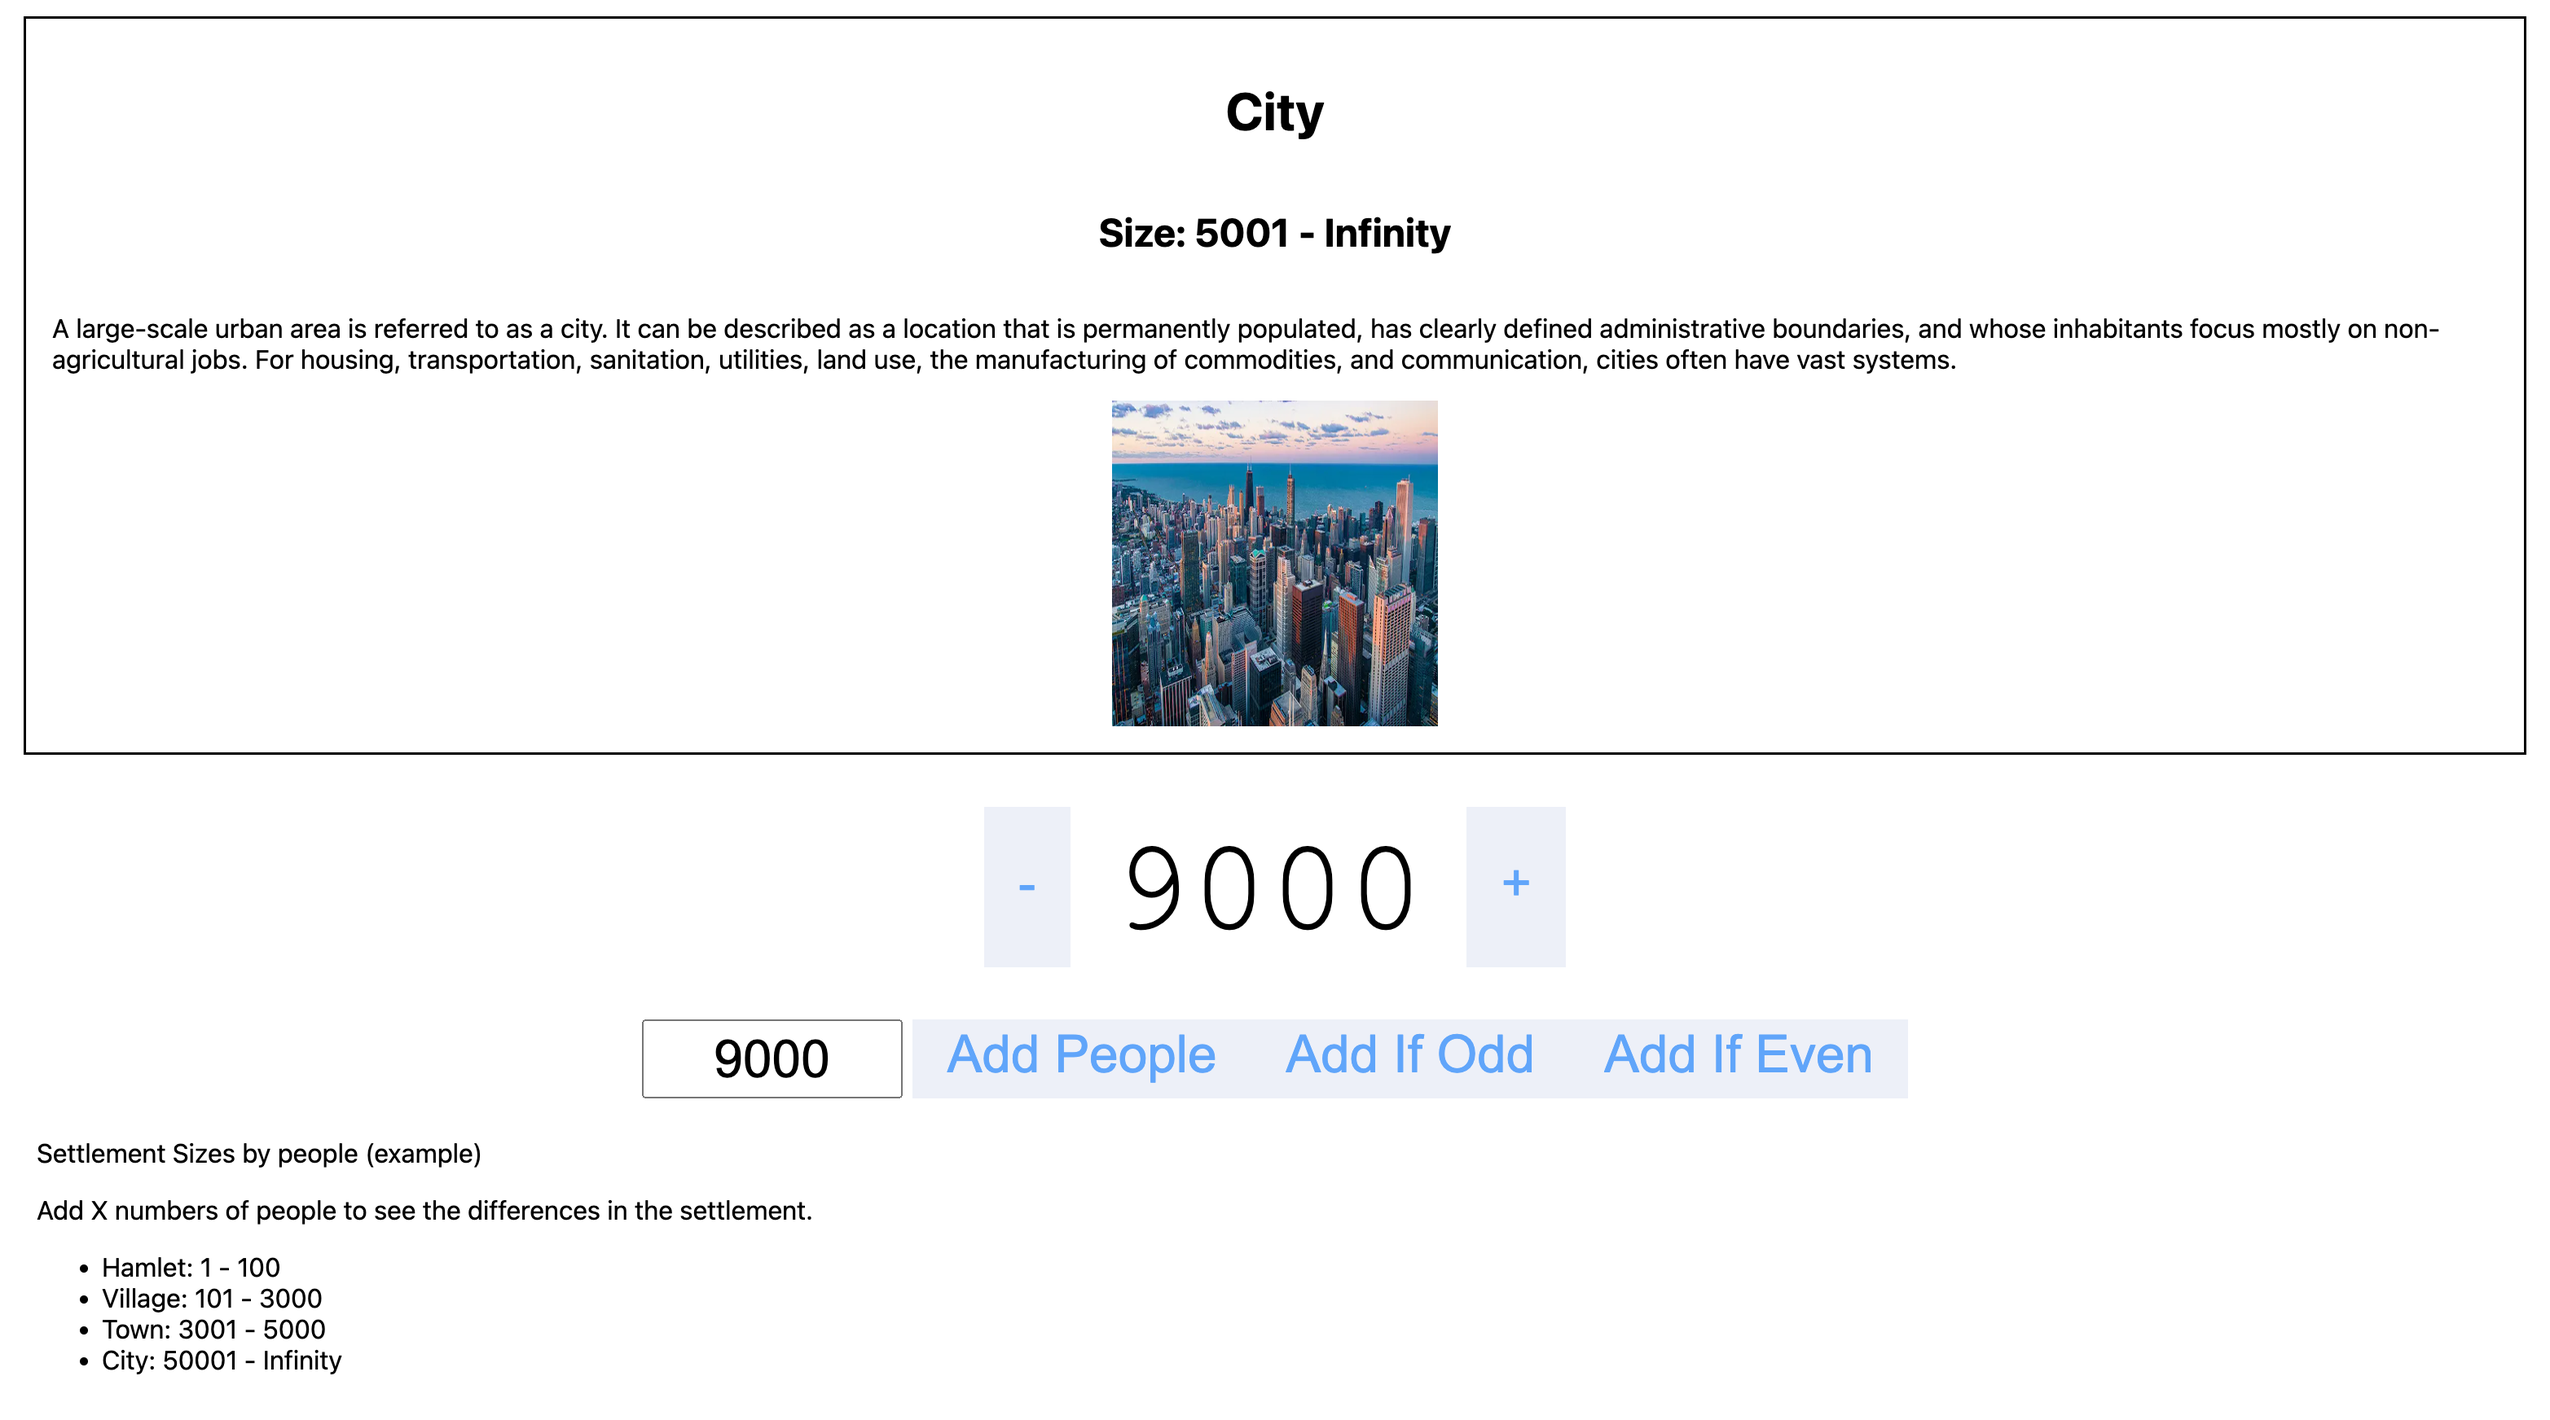
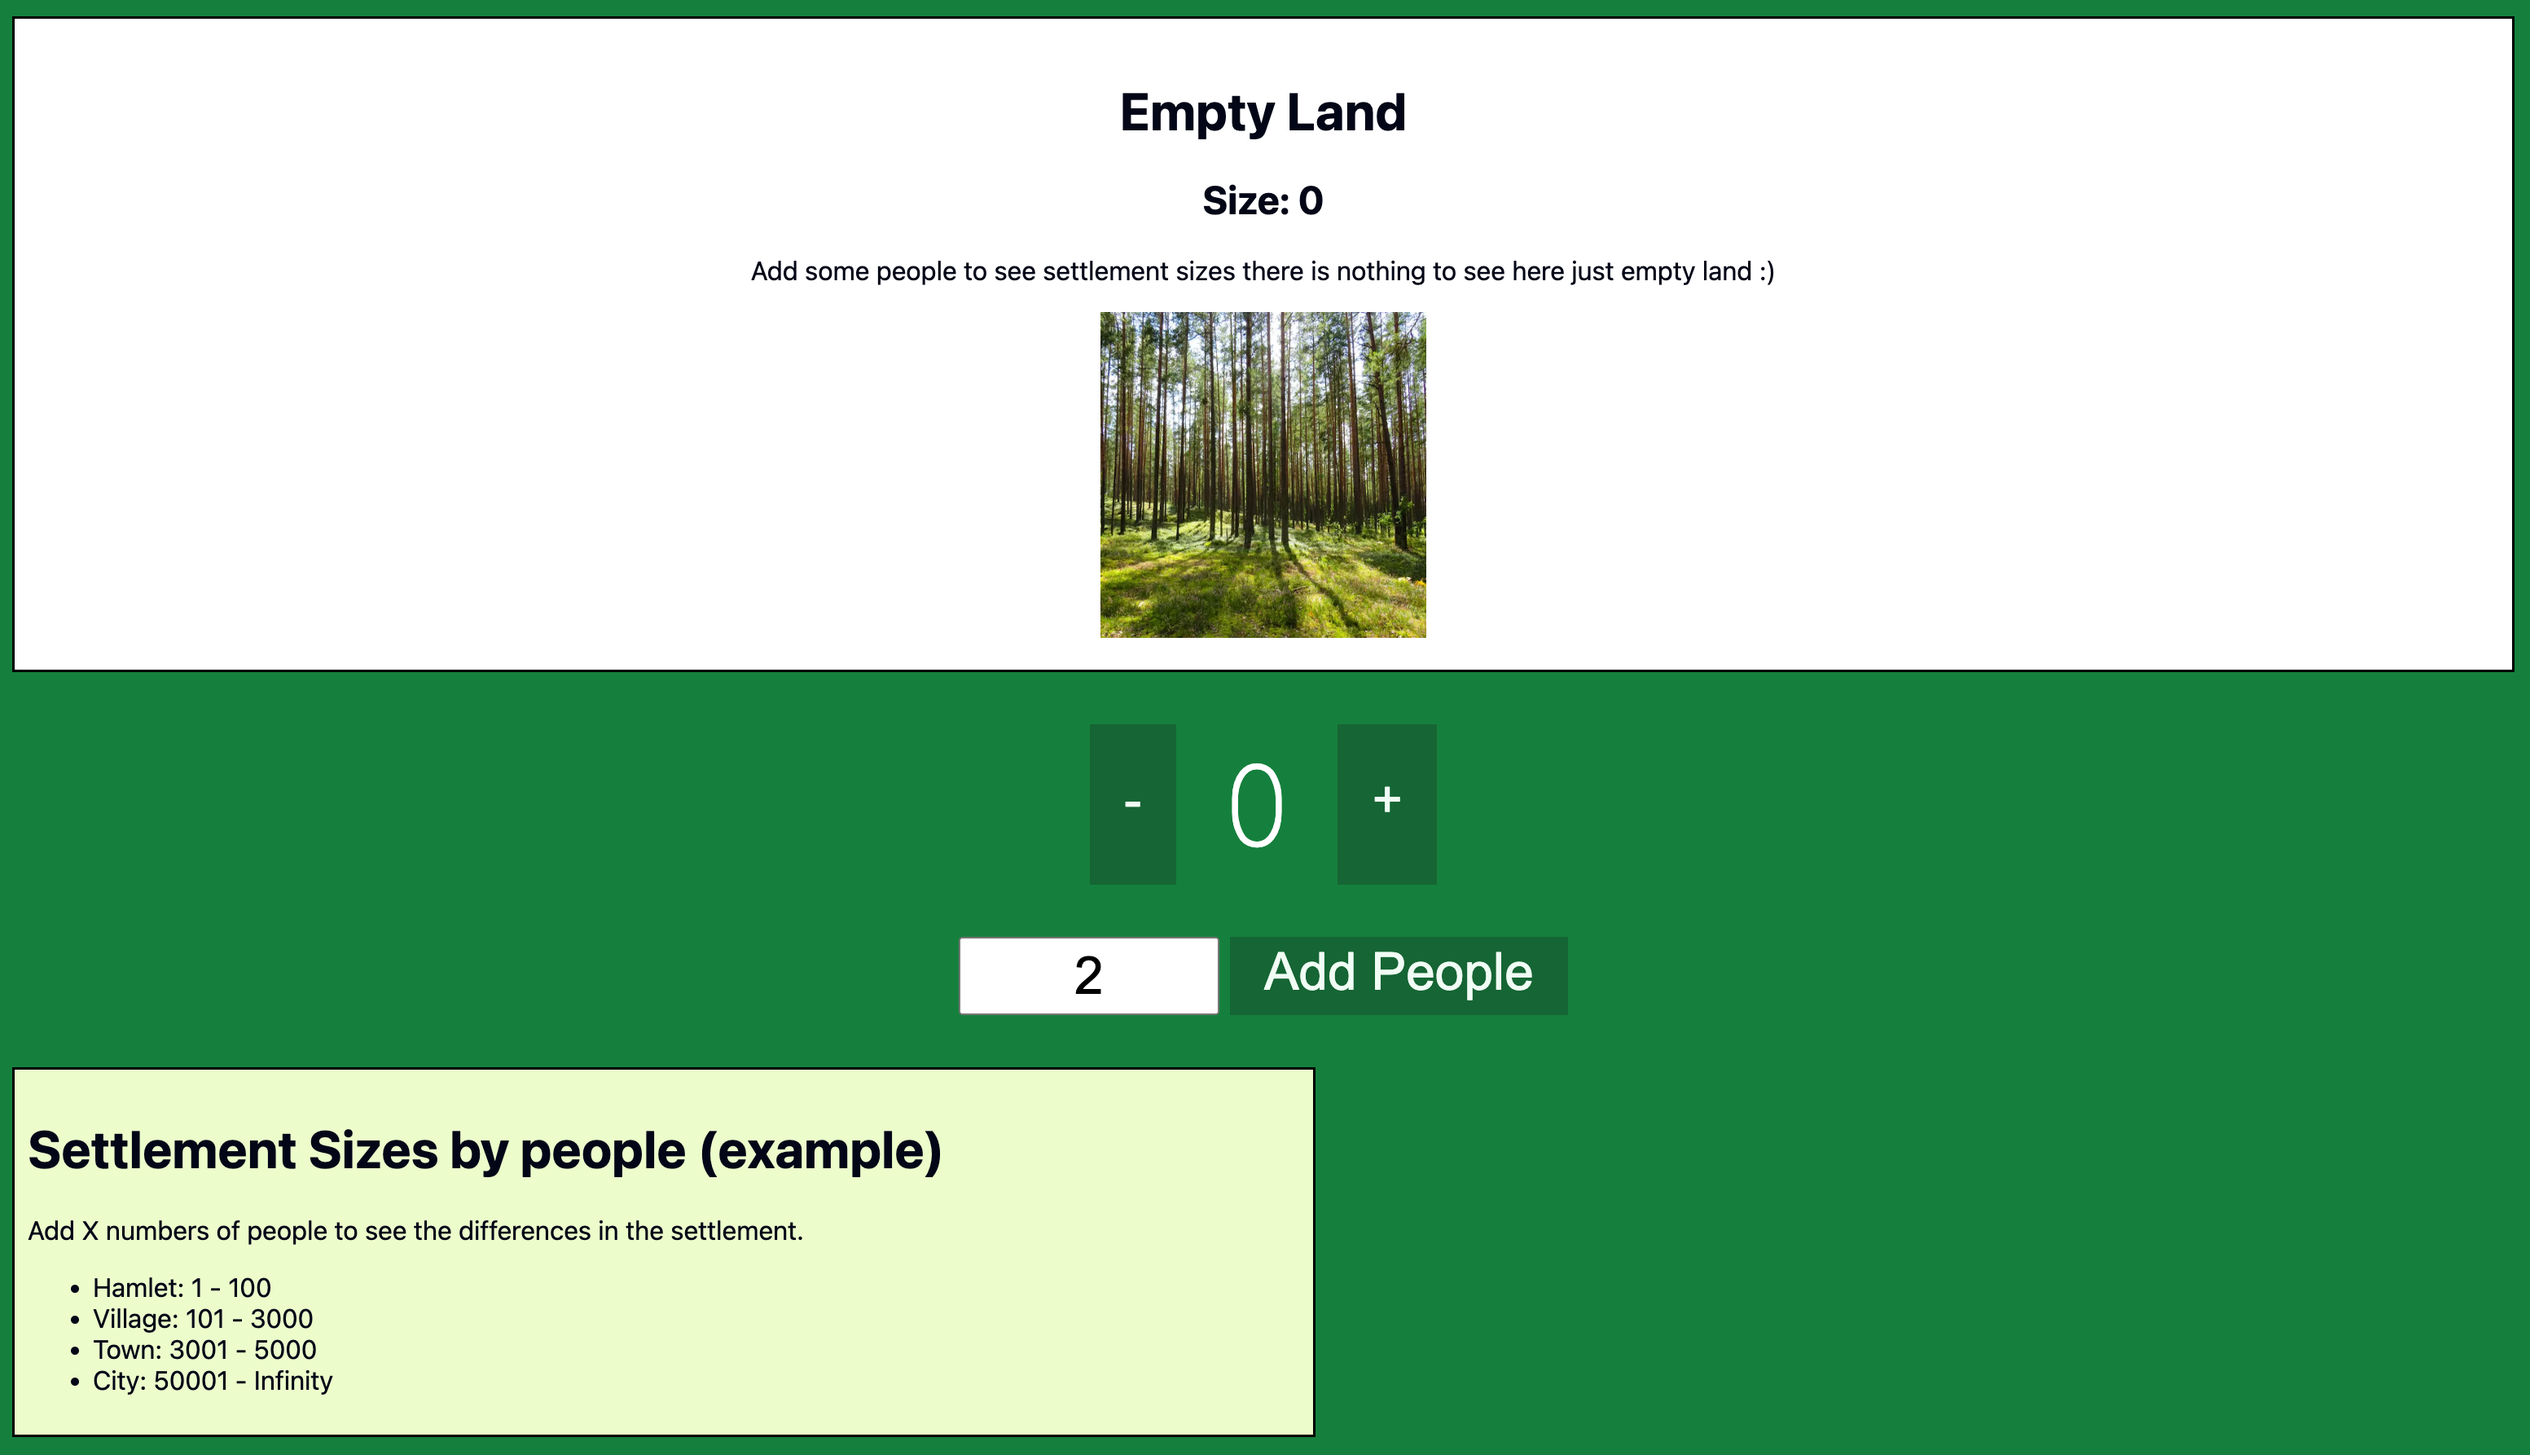
removed odd and even logic for both apps and improved the UI design

diff --git a/my-app-zedux/src/app/components/Counter/Counter.js b/my-app-zedux/src/app/components/Counter/Counter.js
@@ -6,10 +6,8 @@ import { countAtom, settlementAtom } from '../../store';
 import styles from './counter.module.css';
 
 export default function Counter() {
-  const [
-    count,
-    { decrement, increment, incrementByAmount, incrementOdd, incrementEven },
-  ] = useAtomState(countAtom);
+  const [count, { decrement, increment, incrementByAmount }] =
+    useAtomState(countAtom);
   const [settlement] = useAtomState(settlementAtom);
   const [incrementAmount, setIncrementAmount] = useState(2);
   const [imgSize] = useState(200);
@@ -78,6 +76,24 @@ export default function Counter() {
     <div className={styles.container}>
       <div className={styles.settlements}>
         <Settlements />
+        {count <= 0 ? (
+          <div className={styles.settlementempty}>
+            <h1>Empty Land</h1>
+            <h2>Size: 0</h2>
+            <p>
+              Add some people to see settlement sizes there is nothing to see
+              here just empty land :)
+            </p>
+            <Image
+              src="https://res.cloudinary.com/d74fh3kw/image/upload/v1695310253/empty-land_ralhqp.jpg"
+              height={imgSize}
+              width={imgSize}
+              alt="Empty Land"
+            />
+          </div>
+        ) : (
+          <div></div>
+        )}
       </div>
       <div className={styles.counter}>
         <button
@@ -109,21 +125,9 @@ export default function Counter() {
         >
           Add People
         </button>
-        <button
-          className={styles.button}
-          onClick={() => incrementOdd(incrementAmount)}
-        >
-          Add If Odd
-        </button>
-        <button
-          className={styles.button}
-          onClick={() => incrementEven(incrementAmount)}
-        >
-          Add If Even
-        </button>
       </div>
       <div className={styles.legend}>
-        <p>Settlement Sizes by people (example)</p>
+        <h1>Settlement Sizes by people (example)</h1>
         <p>Add X numbers of people to see the differences in the settlement.</p>
         <ul>
           <li>Hamlet: 1 - 100</li>

diff --git a/my-app-redux/src/app/components/Counter/Counter.js b/my-app-redux/src/app/components/Counter/Counter.js
@@ -8,8 +8,6 @@ import {
   useDispatch,
   selectCount,
   selectSettlement,
-  incrementIfOddAsync,
-  incrementIfEvenAsync,
 } from '../../../lib/redux';
 import styles from './counter.module.css';
 
@@ -84,6 +82,24 @@ export const Counter = () => {
     <div className={styles.container}>
       <div className={styles.settlements}>
         <Settlements />
+        {count <= 0 ? (
+          <div className={styles.settlementempty}>
+            <h1>Empty Land</h1>
+            <h2>Size: 0</h2>
+            <p>
+              Add some people to see settlement sizes there is nothing to see
+              here just empty land :)
+            </p>
+            <Image
+              src="https://res.cloudinary.com/d74fh3kw/image/upload/v1695310253/empty-land_ralhqp.jpg"
+              height={imgSize}
+              width={imgSize}
+              alt="Empty Land"
+            />
+          </div>
+        ) : (
+          <div></div>
+        )}
       </div>
       <div className={styles.counter}>
         <button
@@ -117,21 +133,9 @@ export const Counter = () => {
         >
           Add People
         </button>
-        <button
-          className={styles.button}
-          onClick={() => dispatch(incrementIfOddAsync(incrementAmount))}
-        >
-          Add If Odd
-        </button>
-        <button
-          className={styles.button}
-          onClick={() => dispatch(incrementIfEvenAsync(incrementAmount))}
-        >
-          Add If Even
-        </button>
       </div>
       <div className={styles.legend}>
-        <p>Settlement Sizes by people (example)</p>
+        <h1>Settlement Sizes by people (example)</h1>
         <p>Add X numbers of people to see the differences in the settlement.</p>
         <ul>
           <li>Hamlet: 1 - 100</li>

diff --git a/my-app-redux/src/app/components/Counter/counter.module.css b/my-app-redux/src/app/components/Counter/counter.module.css
@@ -10,6 +10,7 @@
 
 .settlements {
   display: flex;
+  background-color: #ffffff;
   flex-flow: column nowrap;
   align-items: center;
   margin: 2rem auto;
@@ -24,12 +25,17 @@
   margin-top: 2rem;
 }
 
+.settlementempty {
+  text-align: center;
+}
+
 .value {
   font-size: 5rem;
   padding-left: 1.6rem;
   padding-right: 1.6rem;
   margin-top: 0.5rem;
   font-family: 'Courier New', Courier, monospace;
+  color: #ffffff;
 }
 
 .button {
@@ -40,10 +46,10 @@
   padding-right: 1.2rem;
   outline: none;
   border: 2px solid transparent;
-  color: rgb(96 165 250);
+  color: rgb(240 253 244);
   padding-bottom: 0.4rem;
   cursor: pointer;
-  background-color: rgba(76, 106, 182, 0.1);
+  background-color: rgb(22 101 52);
   transition: all 0.15s;
 }
 
@@ -57,7 +63,7 @@
 
 .button:hover,
 .button:focus {
-  background-color: rgb(59 130 246);
+  background-color: rgb(34 197 94);
   color: #ffffff;
 }
 
@@ -66,5 +72,10 @@
 }
 
 .legend {
+  margin-top: 2rem;
+  width: 100%;
+  max-width: 50rem;
   padding: 0.5rem;
+  border: 0.1rem solid black;
+  background: rgb(236 252 203);
 }

diff --git a/my-app-zedux/src/app/components/Counter/counter.module.css b/my-app-zedux/src/app/components/Counter/counter.module.css
@@ -10,6 +10,7 @@
 
 .settlements {
   display: flex;
+  background-color: #ffffff;
   flex-flow: column nowrap;
   align-items: center;
   margin: 2rem auto;
@@ -24,12 +25,17 @@
   margin-top: 2rem;
 }
 
+.settlementempty {
+  text-align: center;
+}
+
 .value {
   font-size: 5rem;
   padding-left: 1.6rem;
   padding-right: 1.6rem;
   margin-top: 0.5rem;
   font-family: 'Courier New', Courier, monospace;
+  color: #ffffff;
 }
 
 .button {
@@ -40,10 +46,10 @@
   padding-right: 1.2rem;
   outline: none;
   border: 2px solid transparent;
-  color: rgb(96 165 250);
+  color: rgb(240 253 244);
   padding-bottom: 0.4rem;
   cursor: pointer;
-  background-color: rgba(76, 106, 182, 0.1);
+  background-color: rgb(22 101 52);
   transition: all 0.15s;
 }
 
@@ -57,7 +63,7 @@
 
 .button:hover,
 .button:focus {
-  background-color: rgb(59 130 246);
+  background-color: rgb(34 197 94);
   color: #ffffff;
 }
 
@@ -66,5 +72,10 @@
 }
 
 .legend {
+  margin-top: 2rem;
+  width: 100%;
+  max-width: 50rem;
   padding: 0.5rem;
+  border: 0.1rem solid black;
+  background: rgb(236 252 203);
 }

diff --git a/my-app-zedux/src/app/store.js b/my-app-zedux/src/app/store.js
@@ -7,16 +7,6 @@ export const countAtom = atom('count', () => {
     decrement: () => store.setState((state) => state - 1),
     increment: () => store.setState((state) => state + 1),
     incrementByAmount: (action) => store.setState((state) => (state += action)),
-    incrementOdd: (action) => {
-      if (store.getState() % 2 === 1) {
-        return store.setState((state) => state + action);
-      }
-    },
-    incrementEven: (action) => {
-      if (store.getState() % 2 === 0) {
-        return store.setState((state) => state + action);
-      }
-    },
   });
 });
 

diff --git a/my-app-redux/src/lib/redux/slices/counterSlice/counterSlice.js b/my-app-redux/src/lib/redux/slices/counterSlice/counterSlice.js
@@ -45,7 +45,6 @@ export const counterSlice = createSlice({
     decrement: (state) => {
       state.value -= 1;
     },
-
     incrementByAmount: (state, action) => {
       state.value += action.payload;
     },

diff --git a/my-app-redux/src/app/styles/globals.css b/my-app-redux/src/app/styles/globals.css
@@ -4,6 +4,8 @@ body {
   padding: 0;
   margin: 0;
   font-family: system-ui, sans-serif;
+  background-color: rgb(21 128 61);
+  color: rgb(2 6 23);
 }
 
 a {

diff --git a/my-app-zedux/src/app/styles/globals.css b/my-app-zedux/src/app/styles/globals.css
@@ -4,6 +4,8 @@ body {
   padding: 0;
   margin: 0;
   font-family: system-ui, sans-serif;
+  background-color: rgb(21 128 61);
+  color: rgb(2 6 23);
 }
 
 a {

diff --git a/my-app-redux/src/lib/redux/slices/counterSlice/index.js b/my-app-redux/src/lib/redux/slices/counterSlice/index.js
@@ -1,3 +1,2 @@
 export * from './counterSlice';
-export * from './thunks';
 export * from './selectors';
